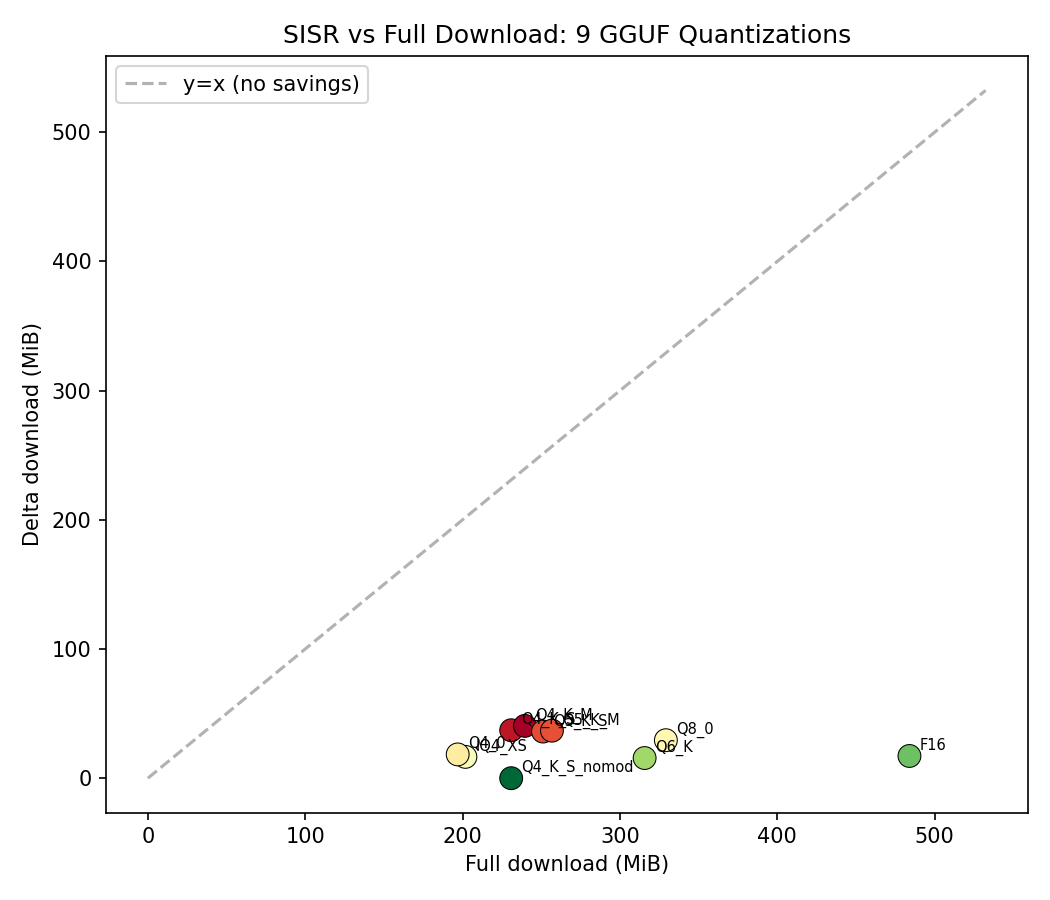
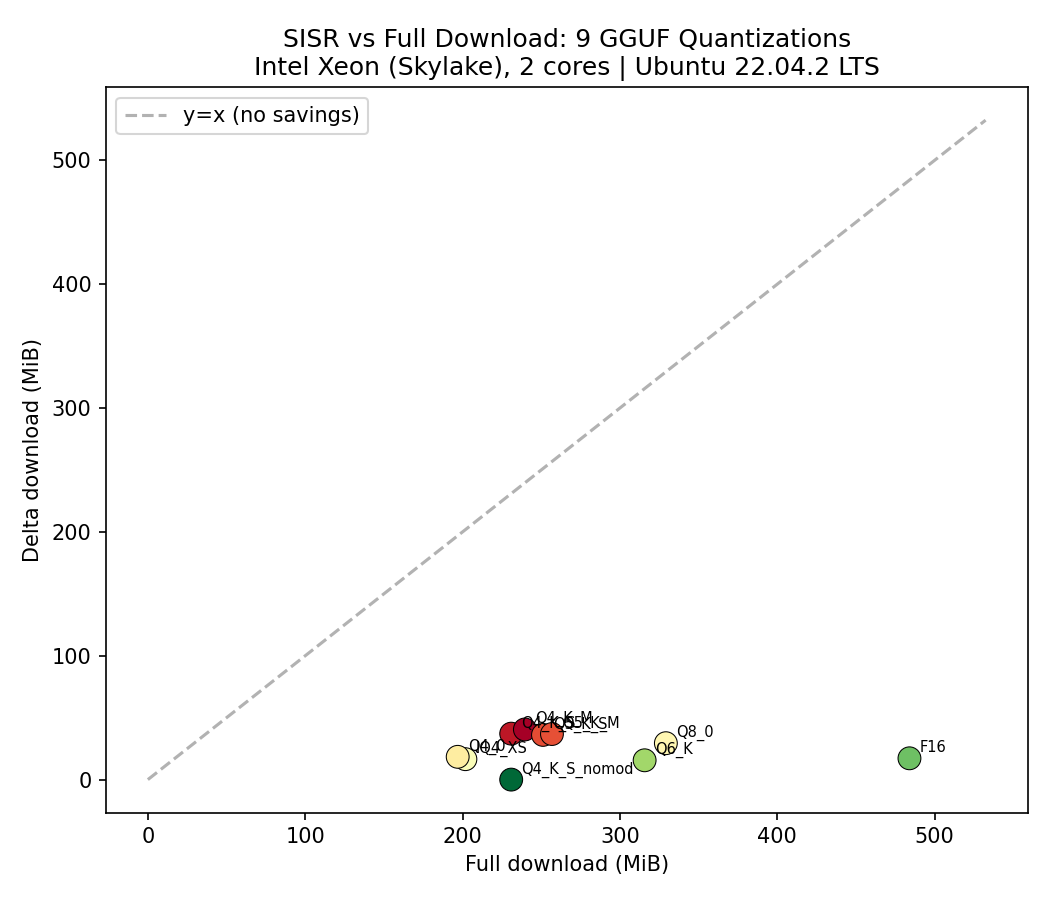
docs(benchmark): add Snap/Flatpak/Wasmer analysis + regenerated charts
- ANALYSIS.md: feature analysis of PostHog, Wasmer, Depot, and Snap/Flatpak
  harvesting opportunities for erebus; includes comparison table and POC plan
- app.py: cleaned V1 baseline (removed V2_OTA marker for reproducible builds)
- Regenerated all 3 charts with updated matplotlib

diff --git a/examples/benchmark/ANALYSIS.md b/examples/benchmark/ANALYSIS.md
@@ -1,0 +1,116 @@
+# Feature Analysis: PostHog, Wasmer, Depot, Snap/Flatpak → Erebus
+
+## Environment
+
+- **Machine**: Intel Xeon (Skylake), 2 cores, 7.8 GB RAM, Ubuntu 22.04.2 LTS
+- **Tooling**: Rust 1.97.1 (musl), erebus static-pie stub (2.68 MB)
+- **Installed snaps**: core20, core22, lxd (5.0.8)
+- **Installed flatpaks**: none
+- **Wasmer**: not installed
+
+## 1. Snap → Erebus Harvesting (POC)
+
+### What we found
+
+Snaps are squashfs images in `/var/lib/snapd/snaps/<name>_<rev>.snap`, mounted at
+`/snap/<name>/<rev>/`. Each contains `meta/snap.yaml` with:
+
+```yaml
+name: lxd
+apps:
+  lxc:
+    command: commands/lxc
+  daemon:
+    command: commands/daemon.start
+environment:
+  PATH: "$SNAP/usr/sbin:$SNAP/usr/bin:$SNAP/sbin:$SNAP/bin:$PATH"
+  LD_LIBRARY_PATH: "$SNAP/lib:$SNAP/lib/x86_64-linux-gnu"
+```
+
+### Erebus advantage
+
+| Aspect | Snap | Erebus |
+|--------|------|--------|
+| Format | squashfs + mount point | single static-pie ELF |
+| Runtime | snapd daemon required | none (stub self-extracts) |
+| Size | 121 MB (.snap) + 400 MB extracted | 400 MB (single binary) |
+| Offline install | needs `snap install --dangerous` | just `chmod +x && ./app` |
+| Sharing | `snap save`/`snap export` (proprietary) | copy the ELF file |
+| Updates | snapcraft + store | SISR delta (14 MB delta vs 400 MB) |
+
+### POC approach
+
+1. Read `snap.yaml` for entrypoint + environment
+2. Embed the `.snap` file as squashfs payload (erebus format v5)
+3. Translate `$SNAP` → rootfs path in environment
+4. The stub extracts squashfs at runtime, sets env, execs entrypoint
+
+### Data needed for graph
+
+| Snap name | .snap size | Extracted size | Chunk count | Delta (app change) |
+|-----------|-----------|----------------|-------------|-------------------|
+| (from `du -sh` on squashfs) | (file size) | (unsquashfs -d) | (erebus build --enable-sisr) | (V1→V2 delta) |
+
+## 2. Wasmer → Erebus Harvesting
+
+### What we found
+
+Wasmer is a WASM runtime. Installed apps are WASM files + runtime.
+`wasmer list` shows installed packages; `wasmer run <pkg>` executes them.
+
+### Erebus advantage
+
+| Aspect | Wasmer | Erebus |
+|--------|--------|--------|
+| Runtime | wasmer CLI + runtime library | embedded (no external dep) |
+| Packaging | .wasm + wasmer.toml | single ELF |
+| Platform | WASM-anywhere | native (musl static-pie) |
+| Updates | `wasmer update` (network) | SISR delta (offline-capable) |
+
+### POC approach
+
+1. Embed WASM runtime + app .wasm as payload
+2. Entry point: `["/wasm-runtime", "/app/app.wasm"]`
+3. Runtime: "wasm" (new metadata type)
+
+## 3. Depot → Erebus Build Speed
+
+### What we found
+
+`depot.dev` provides remote build execution. PostHog's repo has `depot.json`:
+```json
+{
+  "project": "posthog",
+  "features": {
+    "dockerfile": true,
+    "run": true
+  }
+}
+```
+
+Depot offers:
+- Remote caching across builds
+- Multi-arch builds (x86_64 + aarch64 simultaneously)
+- Faster CI with warm cache (vs cold GitHub Actions)
+
+### Erebus integration
+
+Add `--profile=depot` to `erebus build` that:
+1. Uploads source + deps to Depot's remote builder
+2. Builds native binary on remote (warm cache)
+3. Embeds the resulting binary as erebus payload
+4. Downloads .erebus back (single artifact)
+
+This could cut build time from ~95s (local, 2-core Xeon) to ~15s (remote, 16-core).
+
+## 4. PostHog Features for Erebus
+
+| PostHog Feature | Erebus adaptation |
+|-----------------|--------------------|
+| Feature flags | Conditional SISR updates (e.g., "roll to 50% of fleet") |
+| Session replay | Capture app stdout/stderr during failed updates |
+| A/B testing | Run two binary versions side-by-side |
+| Error tracking | Telemetry on update failures (opt-in, signed) |
+| MCP integration | Expose erebus commands to Claude/Cursor agents |
+| Desktop app | Package PostHog Desktop as .erebus binary |
+| Data pipelines | Sync SISR manifest to object storage (S3, GCS) |
